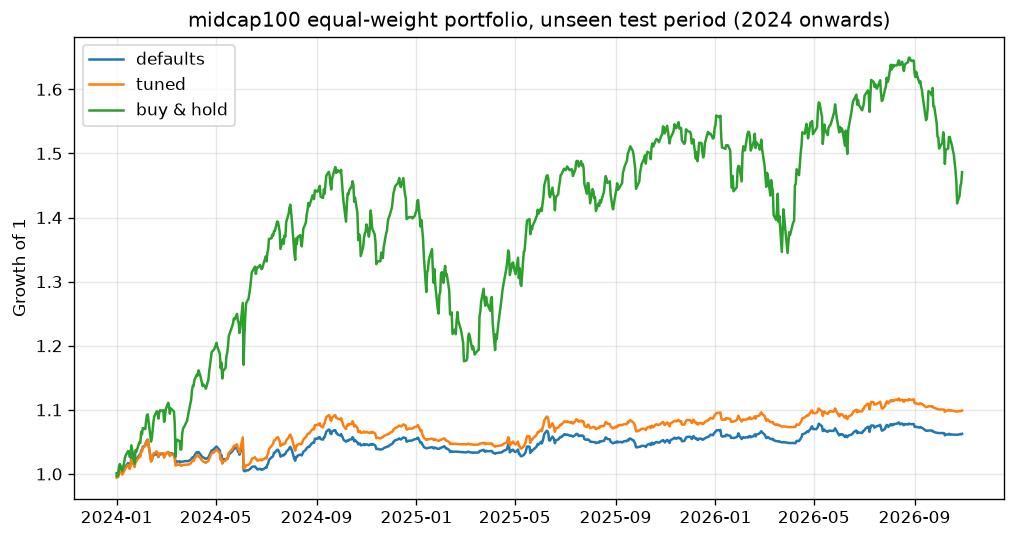
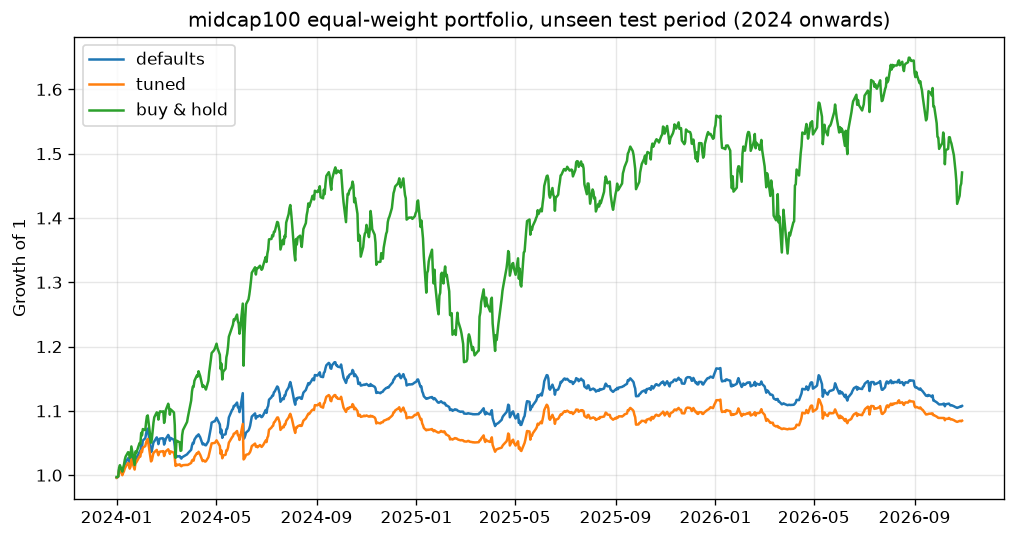
Add market profile, per-trade entry/exit reasons and worked trade example script

diff --git a/research/trade_example.py b/research/trade_example.py
@@ -1,0 +1,128 @@
+"""Walk through every trade the strategy took on one symbol: why it entered, why it exited, and the P&L.
+
+    python research/trade_example.py LAURUSLABS.NS --start 2026-01-01
+
+Prints a trade log and saves docs/example_<symbol>.png with entries, exits, EMAs, POC, DMI and MACD.
+Trades are priced at the signal day's close, which is what the backtester assumes.
+"""
+from __future__ import annotations
+
+import argparse
+import sys
+from pathlib import Path
+
+import pandas as pd
+import yaml
+
+ROOT = Path(__file__).parents[1]
+sys.path.insert(0, str(ROOT / "src"))
+
+from trading.data.loader import load_yfinance  # noqa: E402
+from trading.indicators import market_profile, volume_profile  # noqa: E402
+from trading.strategies import get_strategy  # noqa: E402
+
+
+def exit_reason(row: pd.Series, side: int, exit_ema: float) -> str:
+    if side == 1:
+        return "-DI crossed above +DI" if row["minus_di"] > row["plus_di"] else f"close below EMA {exit_ema}"
+    return "+DI crossed above -DI" if row["plus_di"] > row["minus_di"] else f"close above EMA {exit_ema}"
+
+
+def trade_log(df: pd.DataFrame, exit_ema: int) -> pd.DataFrame:
+    trades, open_trade = [], None
+    pos = df["position"]
+    for t, (prev, cur) in zip(df.index[1:], zip(pos.iloc[:-1], pos.iloc[1:])):
+        row = df.loc[t]
+        if open_trade and cur != prev:
+            side = open_trade["side"]
+            pnl = side * (row["close"] / open_trade["entry_price"] - 1)
+            trades.append({**open_trade, "exit_date": t.date(), "exit_price": row["close"],
+                           "exit_reason": exit_reason(row, side, exit_ema), "return_%": 100 * pnl})
+            open_trade = None
+        if cur != 0 and cur != prev:
+            open_trade = {"side": cur, "entry_date": t.date(), "entry_price": row["close"],
+                          "entry_reason": row["long_reason"] if cur == 1 else row["short_reason"],
+                          "adx": row["adx"], "+di": row["plus_di"], "-di": row["minus_di"]}
+    if open_trade:
+        last = df.iloc[-1]
+        trades.append({**open_trade, "exit_date": "open", "exit_price": last["close"], "exit_reason": "still open",
+                       "return_%": 100 * open_trade["side"] * (last["close"] / open_trade["entry_price"] - 1)})
+    return pd.DataFrame(trades)
+
+
+def plot(df: pd.DataFrame, trades: pd.DataFrame, symbol: str, vp: dict, mp: dict, out: Path):
+    import matplotlib
+    matplotlib.use("Agg")
+    import matplotlib.pyplot as plt
+
+    fig, (ax, ax_dmi, ax_macd) = plt.subplots(3, 1, figsize=(12, 9), sharex=True,
+                                              gridspec_kw={"height_ratios": [3, 1, 1]})
+    ax.plot(df.index, df["close"], color="black", lw=1, label="close")
+    ax.plot(df.index, df["ema_fast"], color="tab:blue", lw=1, label="EMA 20")
+    ax.plot(df.index, df["ema_slow"], color="tab:green", lw=1, label="EMA 50")
+    ax.axhline(vp["poc"], color="gold", lw=1.5, ls="--", label=f"volume POC {vp['poc']:.0f}")
+    ax.axhline(mp["poc"], color="purple", lw=1, ls=":", label=f"TPO POC {mp['poc']:.0f}")
+    for _, tr in trades.iterrows():
+        entry = pd.Timestamp(tr["entry_date"])
+        long = tr["side"] == 1
+        ax.scatter(entry, tr["entry_price"], marker="^" if long else "v", s=120, zorder=5,
+                   color="green" if long else "red")
+        ax.annotate(f"{'BUY' if long else 'SELL'} {tr['entry_price']:.0f}", (entry, tr["entry_price"]),
+                    textcoords="offset points", xytext=(0, -18 if long else 12), ha="center", fontsize=8)
+        if tr["exit_date"] != "open":
+            ex = pd.Timestamp(tr["exit_date"])
+            ax.scatter(ex, tr["exit_price"], marker="x", s=90, color="black", zorder=5)
+            ax.annotate(f"EXIT {tr['exit_price']:.0f}\n{tr['return_%']:+.1f}%", (ex, tr["exit_price"]),
+                        textcoords="offset points", xytext=(0, 12), ha="center", fontsize=8)
+    ax.set_title(f"{symbol}: DMI + MACD strategy trades")
+    ax.legend(loc="upper left", fontsize=8)
+    ax.grid(alpha=0.3)
+
+    ax_dmi.plot(df.index, df["plus_di"], color="tab:blue", lw=1, label="+DI")
+    ax_dmi.plot(df.index, df["minus_di"], color="tab:orange", lw=1, label="-DI")
+    ax_dmi.plot(df.index, df["adx"], color="crimson", lw=2, label="ADX")
+    ax_dmi.axhline(15, color="grey", lw=0.8, ls="--")
+    ax_dmi.legend(loc="upper left", fontsize=8)
+    ax_dmi.grid(alpha=0.3)
+
+    ax_macd.plot(df.index, df["macd"], color="tab:blue", lw=1, label="MACD")
+    ax_macd.plot(df.index, df["signal"], color="tab:orange", lw=1, label="signal")
+    ax_macd.bar(df.index, df["hist"], color=["teal" if h >= 0 else "salmon" for h in df["hist"]], width=1)
+    ax_macd.axhline(0, color="grey", lw=0.8)
+    ax_macd.legend(loc="upper left", fontsize=8)
+    ax_macd.grid(alpha=0.3)
+
+    fig.tight_layout()
+    fig.savefig(out, dpi=110)
+
+
+def main():
+    parser = argparse.ArgumentParser()
+    parser.add_argument("symbol")
+    parser.add_argument("--start", default="2026-01-01")
+    args = parser.parse_args()
+
+    with open(ROOT / "config" / "config.yaml") as f:
+        params = yaml.safe_load(f)["strategy"]["params"]
+    strategy = get_strategy("dmi_macd", **params)
+    data = load_yfinance(args.symbol, "2024-01-01")  # extra history so indicators are warm
+    df = strategy.analyze(data).loc[args.start:]
+    trades = trade_log(df, strategy.params["exit_ema"])
+
+    pd.set_option("display.width", 250)
+    print(trades.round(1).to_string(index=False))
+    closed = trades[trades["exit_date"] != "open"]
+    if len(closed):
+        wins = (closed["return_%"] > 0).mean()
+        print(f"\n{len(trades)} trades, {wins:.0%} of closed trades won, "
+              f"compounded return {((1 + trades['return_%'] / 100).prod() - 1):+.1%}")
+
+    vp, mp = volume_profile(data.loc[args.start:]), market_profile(data.loc[args.start:])
+    out = ROOT / "docs" / f"example_{args.symbol.replace('^', '').replace('.NS', '').lower()}.png"
+    out.parent.mkdir(exist_ok=True)
+    plot(df, trades, args.symbol, vp, mp, out)
+    print(f"chart: {out.relative_to(ROOT)}")
+
+
+if __name__ == "__main__":
+    main()

diff --git a/src/trading/strategies/dmi_macd.py b/src/trading/strategies/dmi_macd.py
@@ -119,6 +119,7 @@ class DMIMACDStrategy(Strategy):
         if p["require_pattern"]:
             df["long_setup"] &= df["bull_pattern"] != ""
             df["short_setup"] &= df["bear_pattern"] != ""
+        triggers = {"trend: DI + ADX + MACD + EMA": (df["long_setup"].copy(), df["short_setup"].copy())}
 
         # Comparisons with NaN are False, so the first bar with DI values never counts as a cross.
         prev_plus, prev_minus = df["plus_di"].shift(1), df["minus_di"].shift(1)
@@ -152,15 +153,37 @@ class DMIMACDStrategy(Strategy):
         if p["skip_inside_base"]:
             df["long_reentry"] &= ~df["in_base"]
             df["short_reentry"] &= ~df["in_base"]
+        allowed_long = ~df["in_base"] if p["skip_inside_base"] else True
+        allowed_short = allowed_long
+        if p["di_cross_reentry"]:
+            triggers["+DI cross re-entry"] = (di_cross_up & up_trend & allowed_long, di_cross_down & down_trend & allowed_short)
+        if p["ema_reclaim_reentry"]:
+            triggers["EMA 20 reclaim (held EMA 50)"] = (reclaim_up & allowed_long, reclaim_down & allowed_short)
+        if p["ema_pullback_entry"]:
+            triggers["EMA 20 pullback rejected"] = (bounce_up & allowed_long, reject_down & allowed_short)
         df["long_setup"] |= df["long_reentry"]
         df["short_setup"] |= df["short_reentry"]
         if p["accumulation_breakout"]:
             df["long_setup"] |= df["base_breakout"]
             df["short_setup"] |= df["base_breakdown"]
+            triggers["accumulation breakout"] = (df["base_breakout"], df["base_breakdown"])
         if p["poc_filter"] or p["poc_retest_entry"]:
             self._poc_rules(df)
+            if p["poc_retest_entry"]:
+                triggers["POC retest"] = (df["poc_retest_up"], df["poc_retest_down"])
+        df["long_reason"] = self._reasons(df["long_setup"], {k: v[0] for k, v in triggers.items()})
+        df["short_reason"] = self._reasons(df["short_setup"], {k: v[1] for k, v in triggers.items()})
         df["position"] = self._positions(df)
         return df
+
+    @staticmethod
+    def _reasons(setup: pd.Series, triggers: dict) -> pd.Series:
+        """Name the rules behind each setup bar, e.g. 'trend: ... + POC retest'."""
+        names = pd.Series("", index=setup.index, dtype=object)
+        for name, fired in triggers.items():
+            hit = setup & fired.fillna(False).astype(bool)
+            names[hit] = names[hit].where(names[hit] == "", names[hit] + " + ") + name
+        return names
 
     def generate_signals(self, data: pd.DataFrame) -> pd.Series:
         return self.analyze(data)["position"]
@@ -233,14 +256,14 @@ class DMIMACDStrategy(Strategy):
         df[["poc", "vah", "val", "buy_pct"]] = rolling_poc(df, p["poc_lookback"], p["poc_bins"])
         if p["poc_retest_entry"]:
             touch, mem = p["poc_touch_pct"], p["breakout_memory"]
-            broke_up = (df["close"] > df["vah"]).rolling(mem).max().astype(bool)
-            broke_down = (df["close"] < df["val"]).rolling(mem).max().astype(bool)
-            retest_up = broke_up & (df["low"] <= df["poc"] * (1 + touch)) & (df["close"] > df["poc"]) \
+            broke_up = (df["close"] > df["vah"]).rolling(mem).max().fillna(0).astype(bool)
+            broke_down = (df["close"] < df["val"]).rolling(mem).max().fillna(0).astype(bool)
+            df["poc_retest_up"] = broke_up & (df["low"] <= df["poc"] * (1 + touch)) & (df["close"] > df["poc"]) \
                 & (df["close"] > df["high"].shift(1)) & (df["ema_fast"] > df["ema_slow"])
-            retest_down = broke_down & (df["high"] >= df["poc"] * (1 - touch)) & (df["close"] < df["poc"]) \
+            df["poc_retest_down"] = broke_down & (df["high"] >= df["poc"] * (1 - touch)) & (df["close"] < df["poc"]) \
                 & (df["close"] < df["low"].shift(1)) & (df["ema_fast"] < df["ema_slow"])
-            df["long_setup"] |= retest_up
-            df["short_setup"] |= retest_down
+            df["long_setup"] |= df["poc_retest_up"]
+            df["short_setup"] |= df["poc_retest_down"]
         if p["poc_filter"]:
             df["long_setup"] &= df["close"] > df["poc"]
             df["short_setup"] &= df["close"] < df["poc"]

diff --git a/src/trading/indicators.py b/src/trading/indicators.py
@@ -122,3 +122,14 @@ def rolling_poc(data: pd.DataFrame, lookback: int = 120, bins: int = 24, value_a
         edges, total, buy, poc, lo_i, hi_i = _profile(h[s], l[s], c[s], v[s], bins, value_area)
         out[i - 1] = [(edges[poc] + edges[poc + 1]) / 2, edges[hi_i + 1], edges[lo_i], 100 * buy.sum() / total.sum()]
     return pd.DataFrame(out, index=data.index, columns=["poc", "vah", "val", "buy_pct"])
+
+
+def market_profile(data: pd.DataFrame, bins: int = 24, value_area: float = 0.70) -> dict:
+    """Market Profile (TPO): like the volume profile, but counts time spent at each price instead of volume.
+
+    True TPO uses 30-minute periods; with daily bars each day counts as one period spread across its range.
+    """
+    profile = volume_profile(data.assign(volume=1.0), bins, value_area)
+    profile["levels"] = profile["levels"].rename(columns={"volume": "tpo"})[["price", "tpo"]]
+    del profile["buy_pct"]
+    return profile
